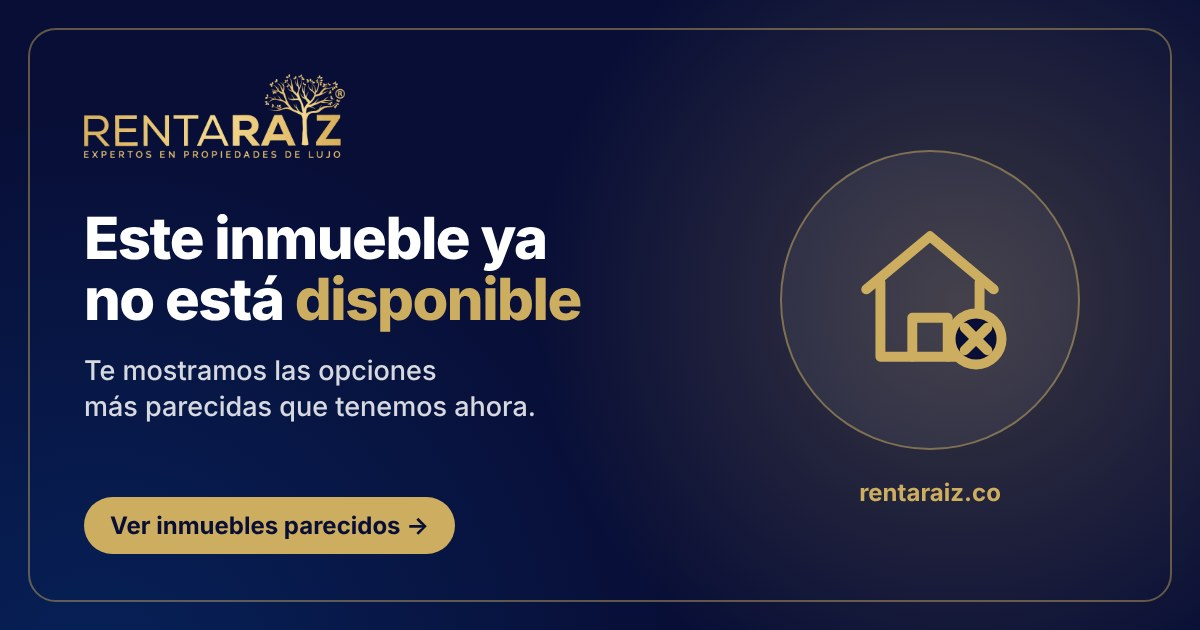
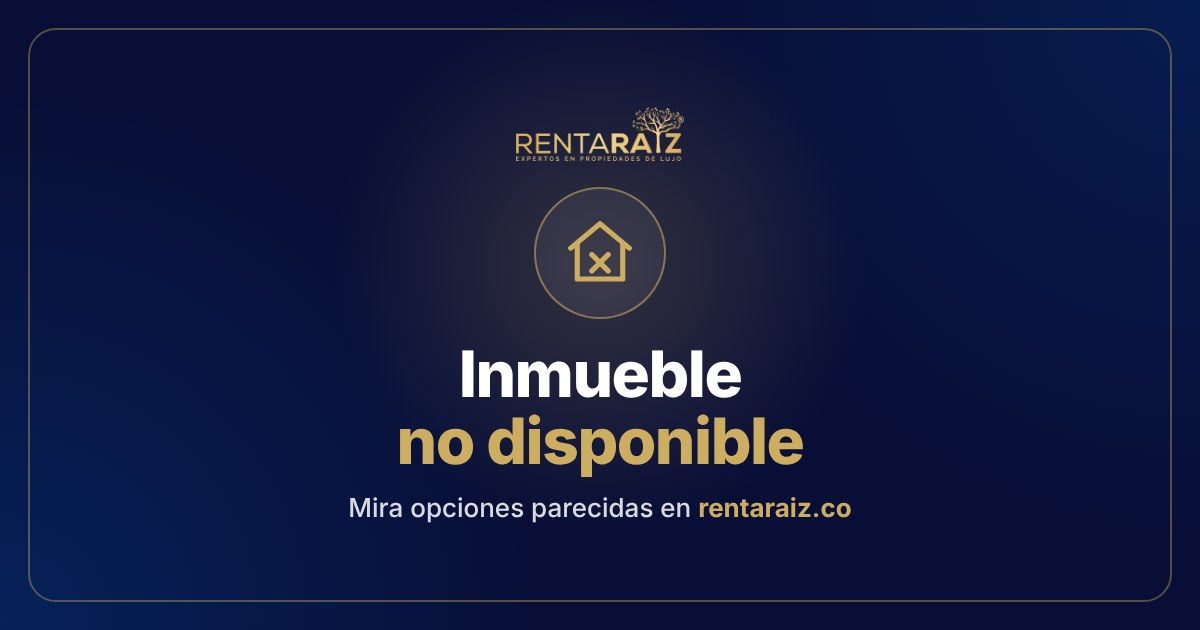
fix: imágenes para compartir legibles en la vista previa de WhatsApp
WhatsApp muestra solo un cuadrado del centro de la imagen: con el texto a la
izquierda se leía "inmueble ya disponible". og-inmueble-no-disponible.jpg y
og-pse.jpg pasan a un diseño centrado ("Inmueble no disponible", "Paga tu
canon por PSE") que se lee completo recortado y entero. ?v=2 en la dirección
para que WhatsApp y las redes tomen la nueva.

Claude-Session: https://claude.ai/code/session_01X2JpvmDKD3vKBLDHsbguG4

diff --git a/src/app/shared/inmueble-retirado/inmueble-retirado.component.ts b/src/app/shared/inmueble-retirado/inmueble-retirado.component.ts
@@ -46,7 +46,7 @@ export function seoInmuebleRetirado(slug: string, params: Record<string, string>
     titulo: `${que}: ya no está disponible | Renta Raíz`,
     descripcion: `Este inmueble ya no está disponible. En Renta Raíz te mostramos las opciones más parecidas que tenemos ahora.`,
     ruta: `/inmueble/${slug}`,
-    imagen: `${SEO_DOMINIO}/assets/images/og-inmueble-no-disponible.jpg`,
+    imagen: `${SEO_DOMINIO}/assets/images/og-inmueble-no-disponible.jpg?v=2`,
     noindex: true,
   };
 }

diff --git a/src/app/Pages/Inicio/inicio.routes.ts b/src/app/Pages/Inicio/inicio.routes.ts
@@ -60,7 +60,7 @@ export const routes: Routes = [
             titulo: 'Paga tu canon de arrendamiento por PSE | Renta Raíz',
             descripcion:
               'Paga el canon de arrendamiento por PSE desde rentaraiz.co: ingresa tu documento, verifica la información, selecciona el valor y paga. Fácil y rápido.',
-            imagen: `${SEO_DOMINIO}/assets/images/og-pse.jpg`,
+            imagen: `${SEO_DOMINIO}/assets/images/og-pse.jpg?v=2`,
           },
         },
       },
